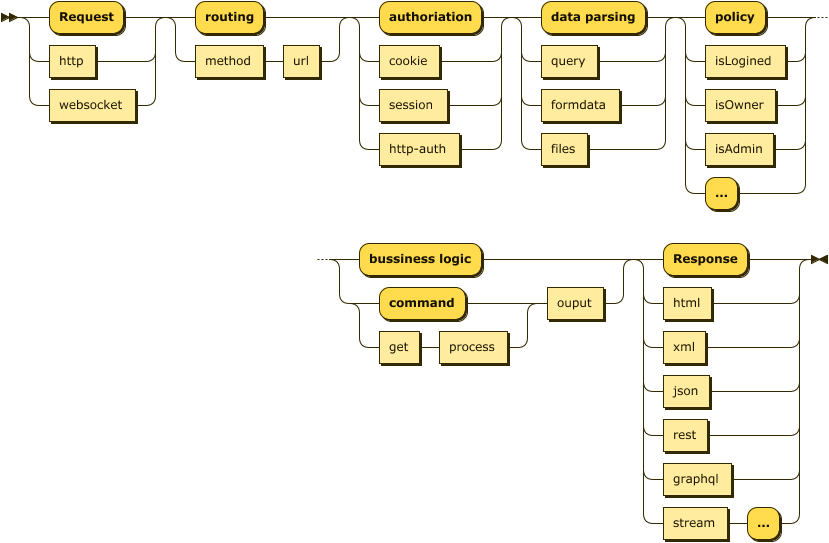
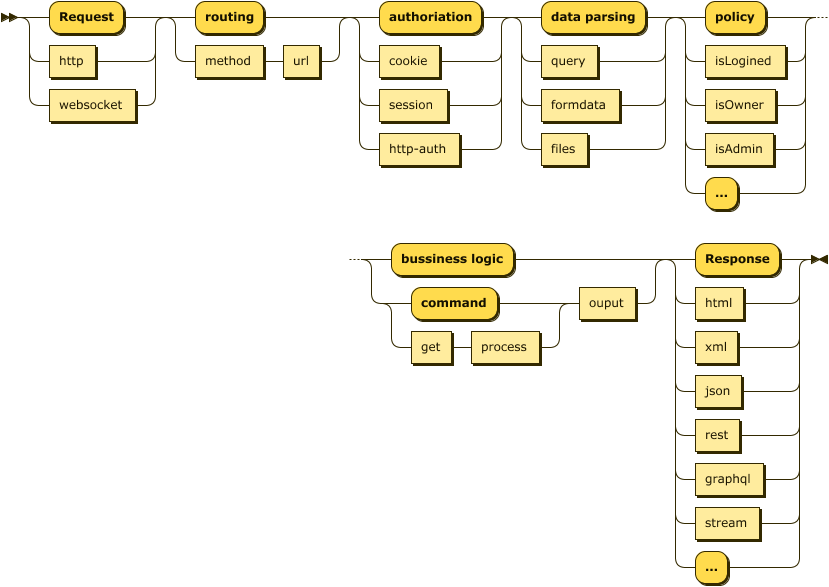
updated docs

Changed region(s): [[0.0, 0.0, 1.0, 1.0]]

diff --git a/docs/grammar.md b/docs/grammar.md
@@ -8,12 +8,5 @@ https://bottlecaps.de/rr/ui
 
 ``` grammar
 Web_Straight_Line
-         ::= 
-( 'Request' | http | websocket )
-( 'routing' | method url )
-( 'authoriation' | cookie | session | http-auth )
-( 'data parsing' | query | formdata | files )
-( 'policy' | isLogined | isOwner | isAdmin | '...' )
-( 'bussiness logic' | ((  'command' | (get process) )  ouput))
-('Response' | html | xml | json | rest | graphql | stream '...')
+         ::= ( 'Request' | http | websocket ) ( 'routing' | method url ) ( 'authoriation' | cookie | session | http-auth ) ( 'data parsing' | query | formdata | files ) ( 'policy' | isLogined | isOwner | isAdmin | '...' ) ( 'bussiness logic' | ( 'command' | get process ) ouput ) ( 'Response' | html | xml | json | rest | graphql | stream | '...' )
 ```
